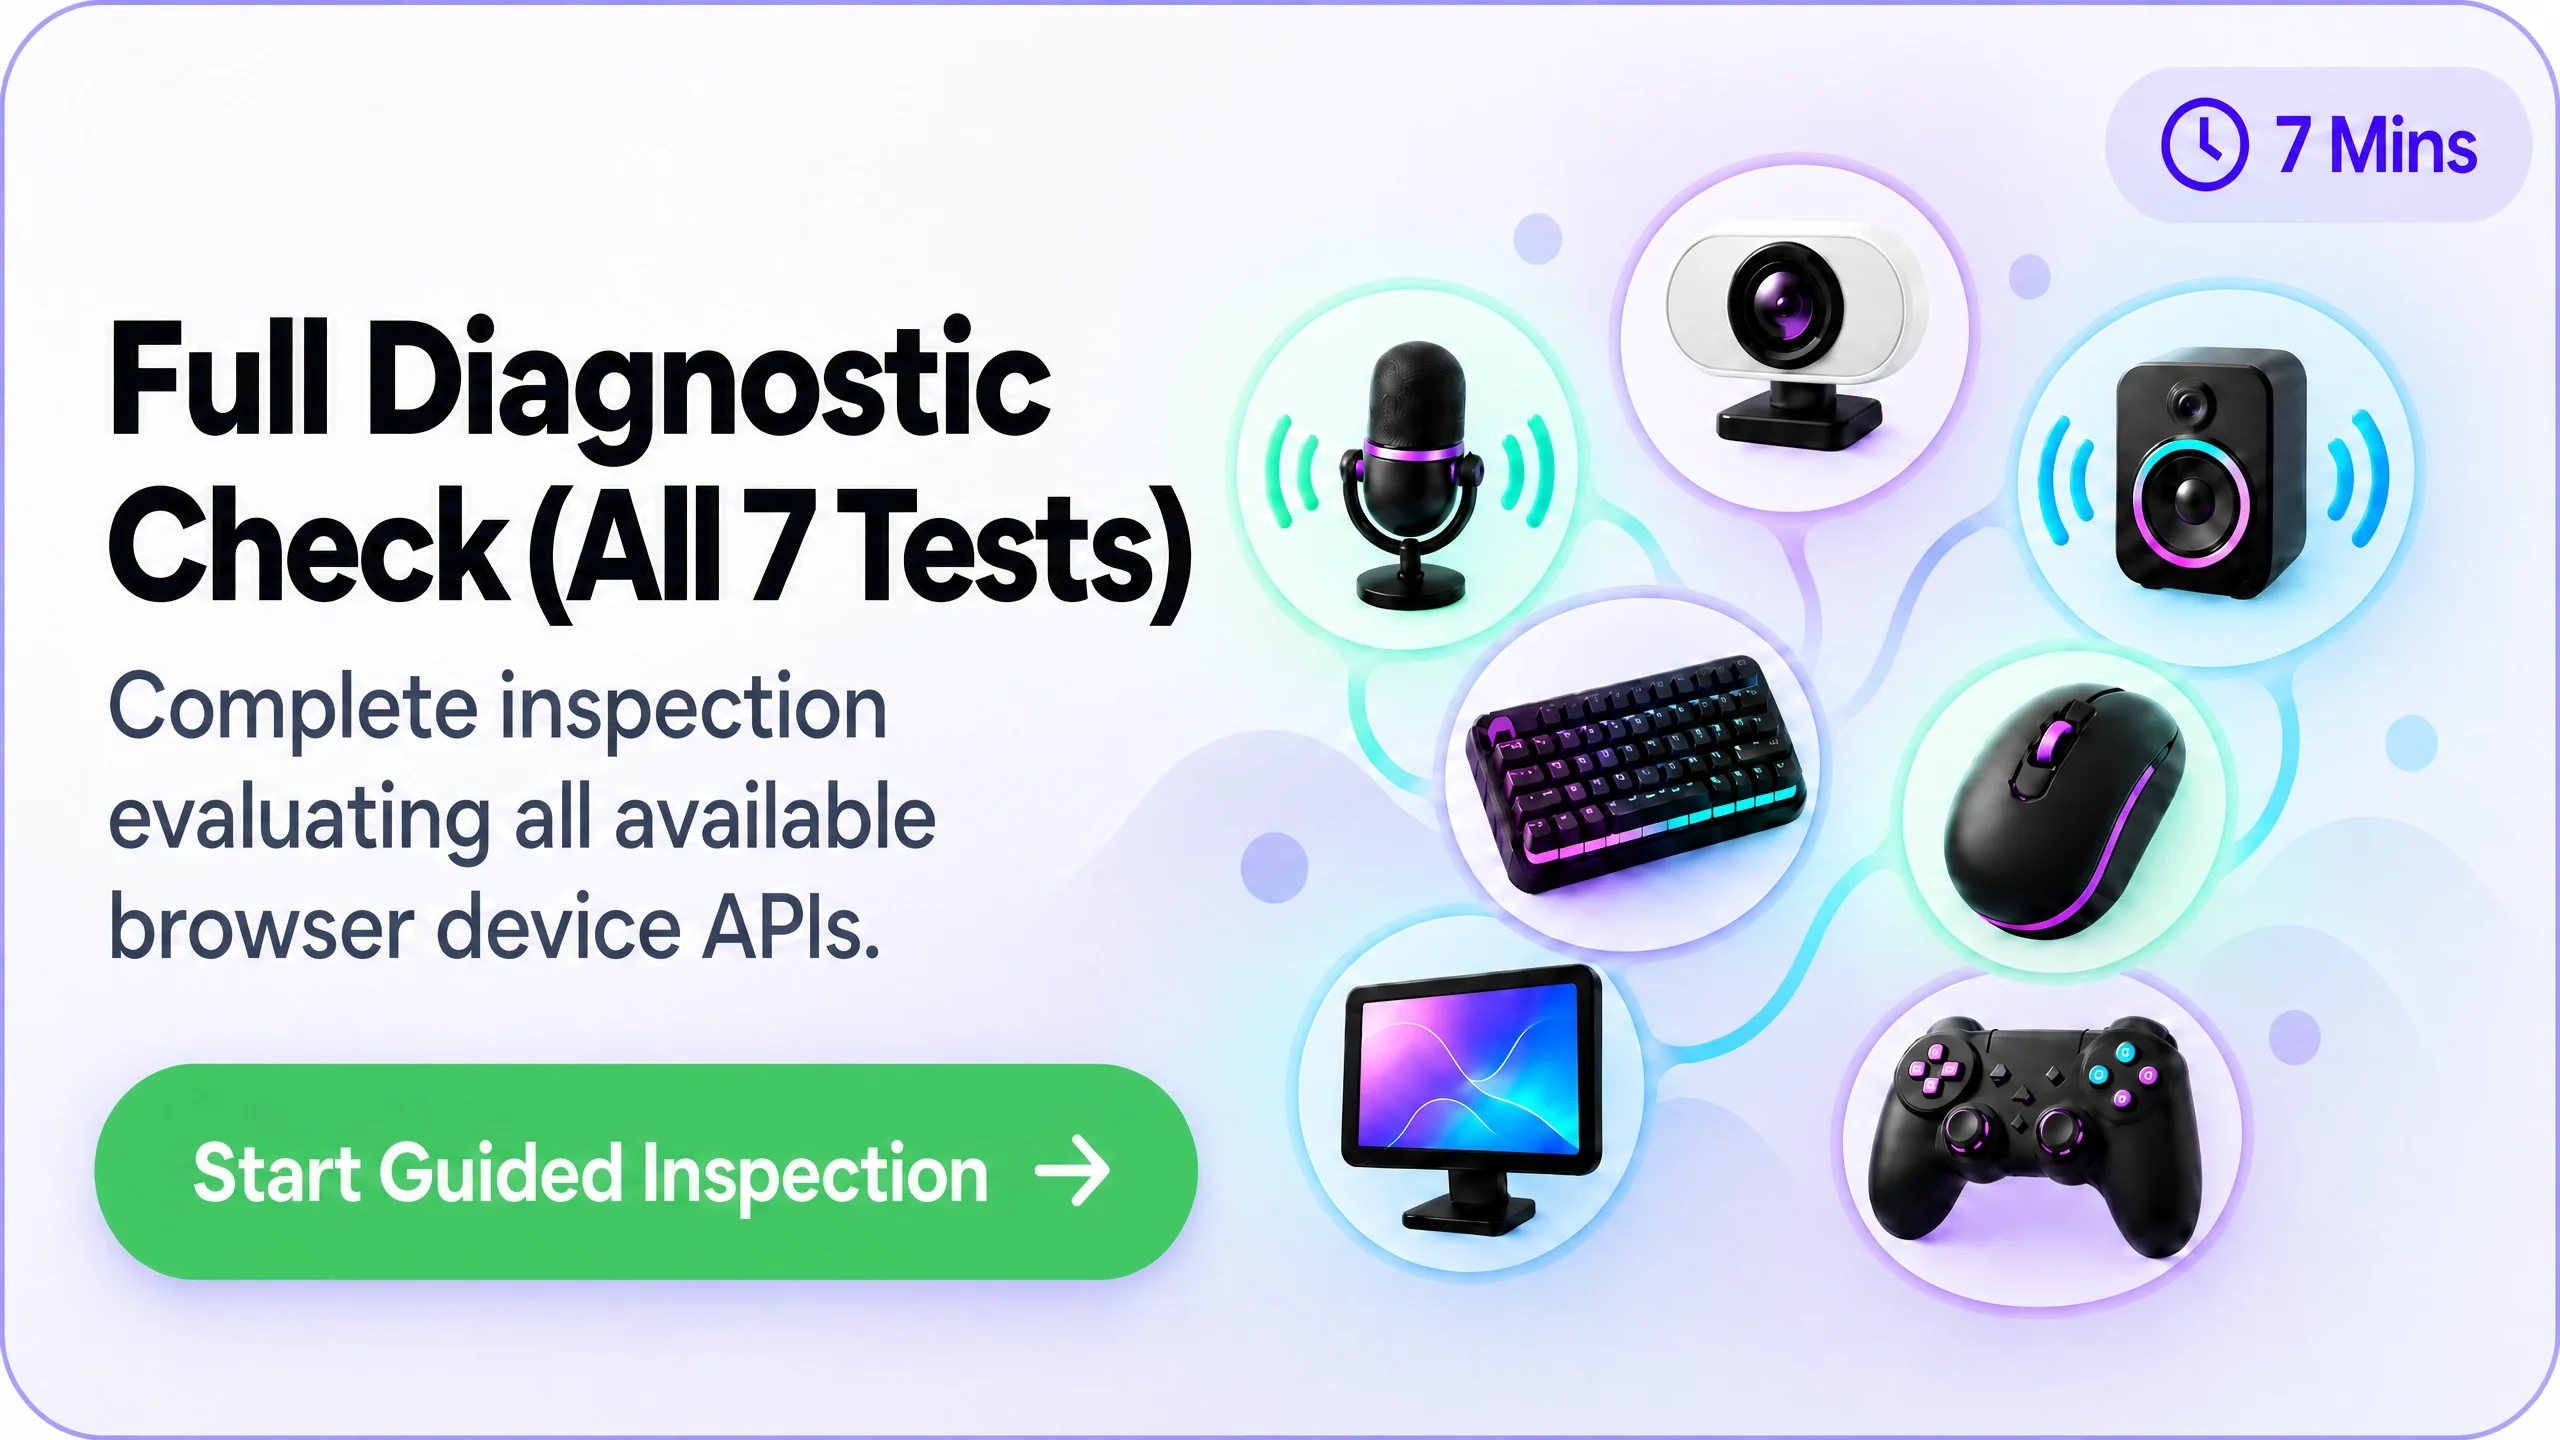
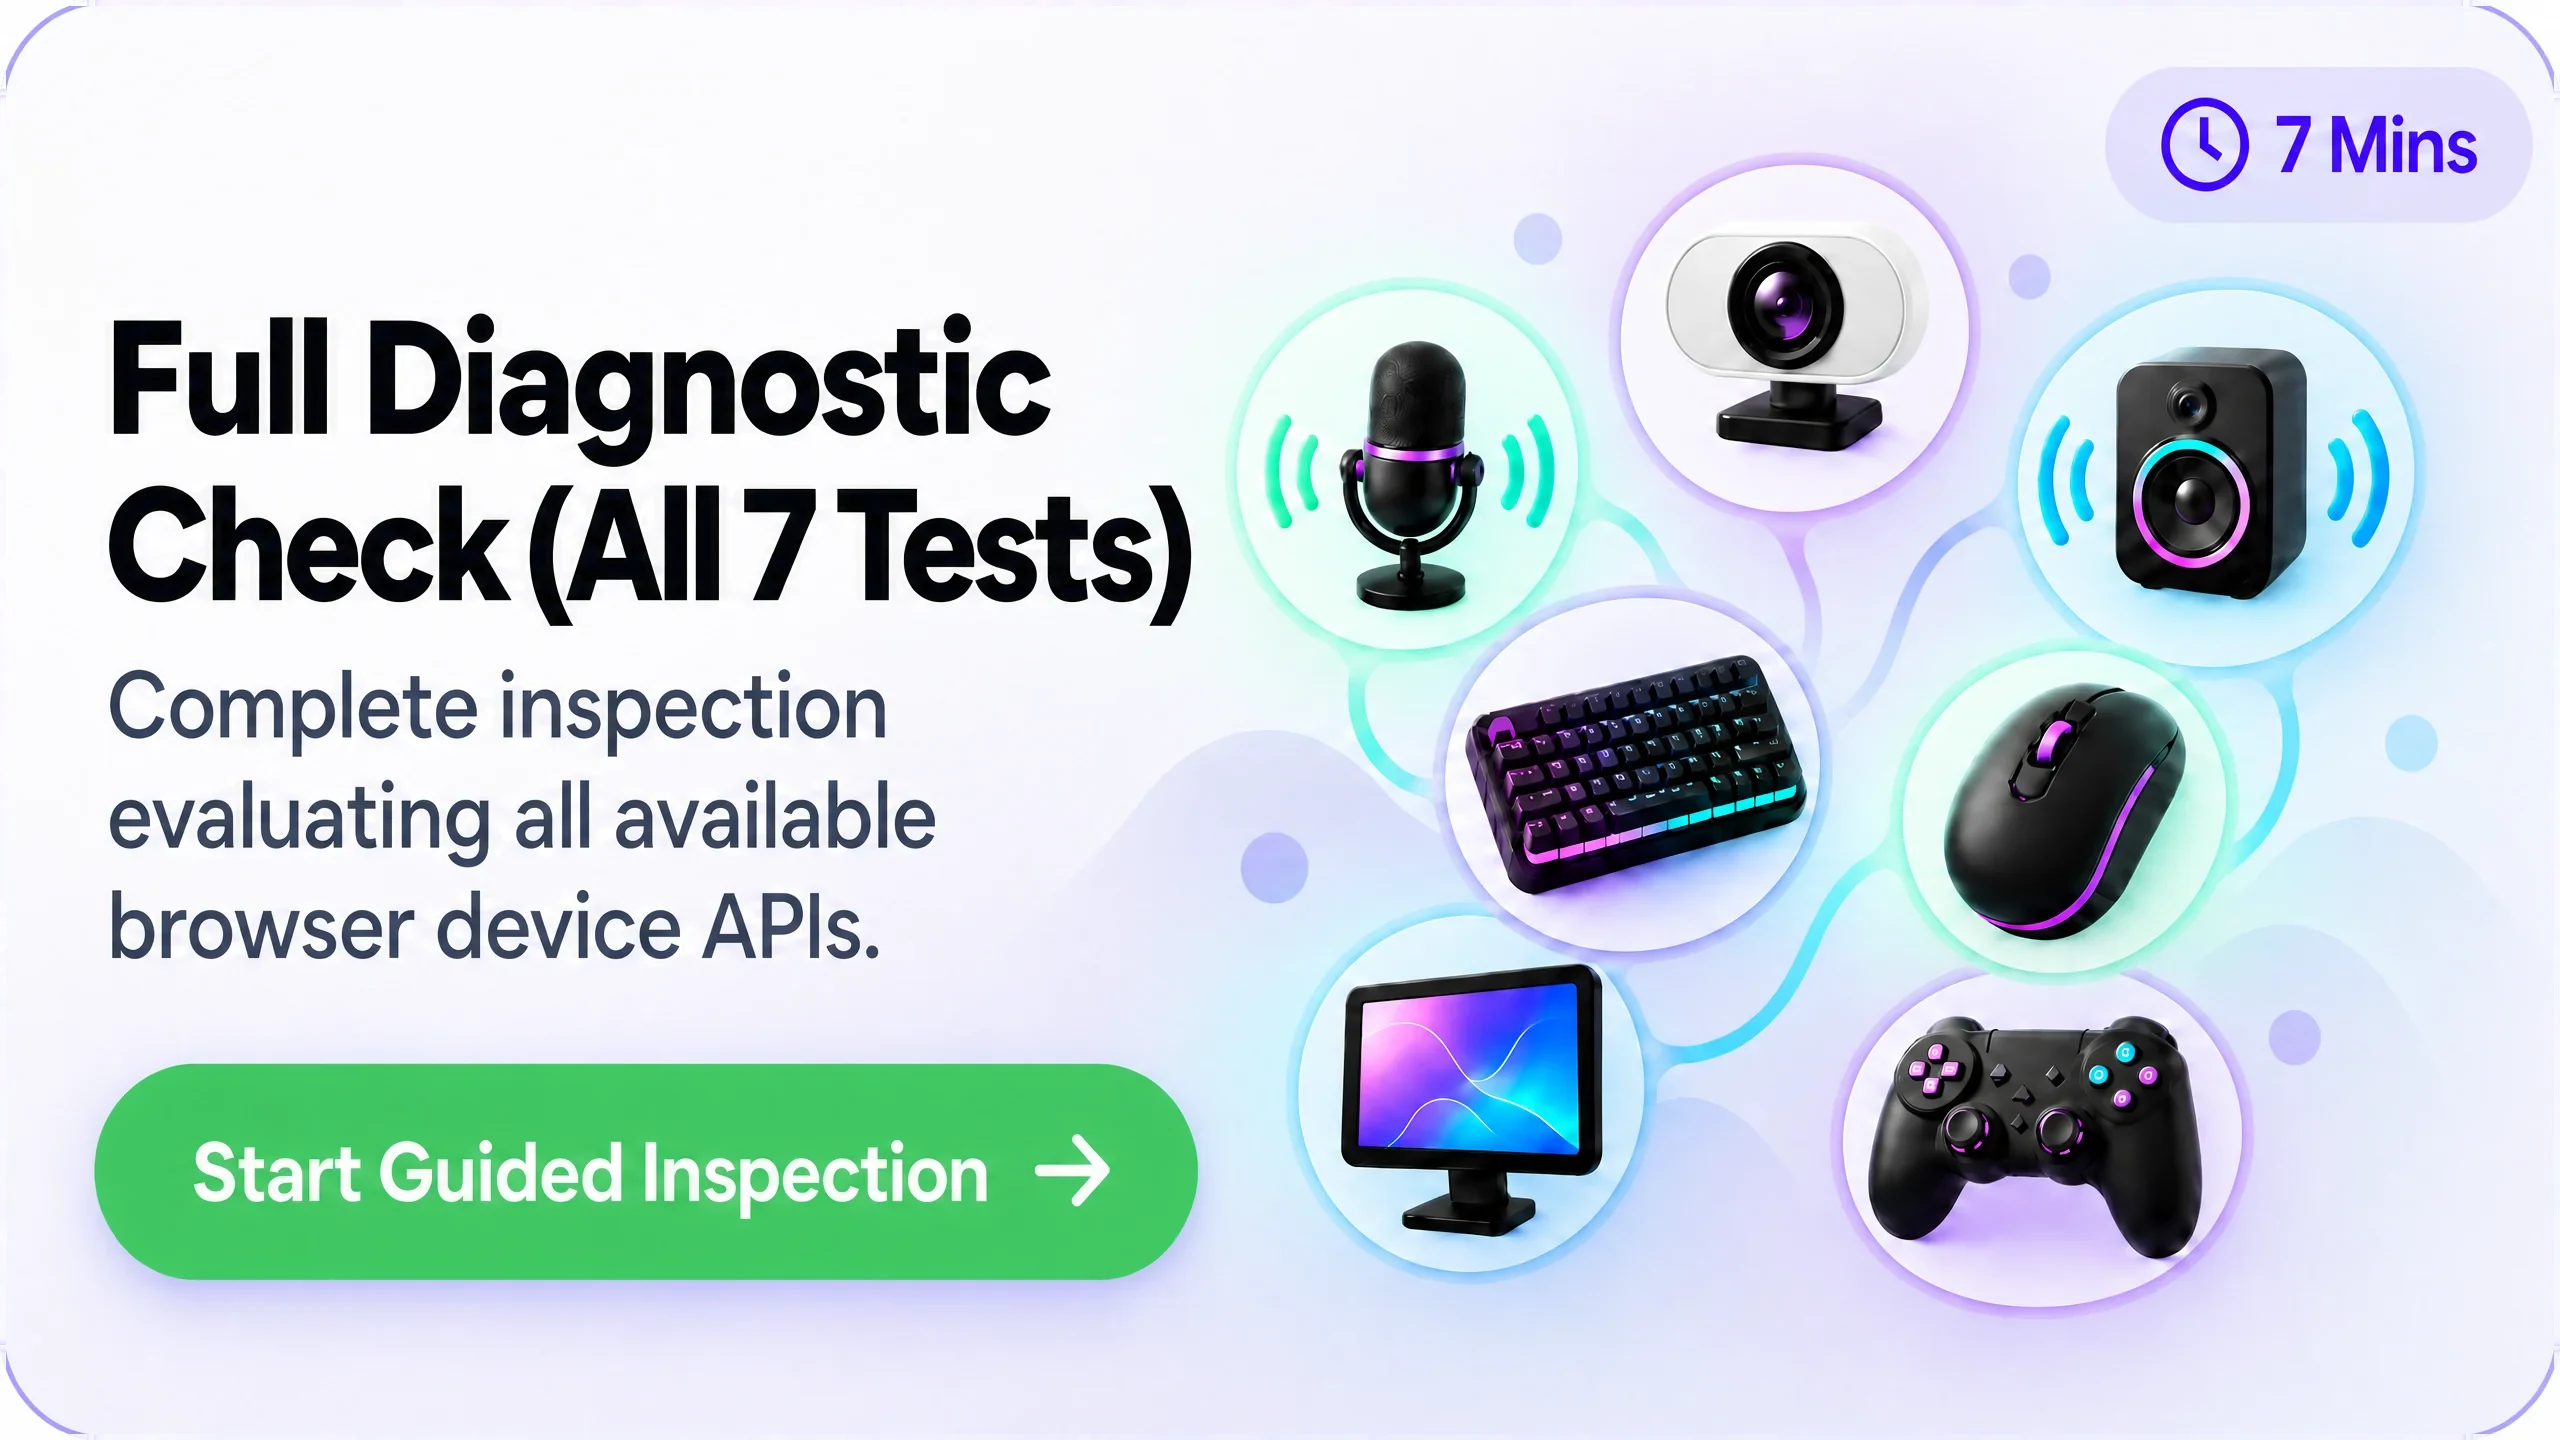
fix: give the four inspection cards one outer shape
The four guided-inspection cards each filled their 2560x1440 frame edge
to edge, so whatever sat outside a card's own rounded corner was still in
the pixels: black on Pre-Call, white on the other three. `rounded-xl` was
on the card box with no `overflow-hidden` beside it, so the radius was
inert and every card showed its own square corners. Clipping is now real,
and the clip radius is wider than any file's corner wedge at every card
width, so nothing is cut.

One file also carried a frame of its own. Measured per asset, Pre-Call,
Used Computer and Classroom have no baked-in edge at all, while Full
Diagnostic had a uniform 5px lavender stroke around its whole perimeter,
which is why it read as a rounded card drawn inside a larger white
square with an extra inner outline. Its source is named
diagnostic_inspection_green_no_inner_frame.png, so that frame was already
meant to be gone. It is removed from the asset rather than hidden with a
theme colour: the stroke sat on the perimeter with the nearest card
content 88px in, so the body colour was propagated outward ring by ring,
leaving zero pixels changed outside the 6px band. Output stays 2560x1440
at the quality that reproduces the other three files' sizes.

A test decodes all four assets and fails on any band thicker than 2px, so
a re-export cannot quietly put the frame back. The chroma check needs a
brightness floor: Pre-Call's near-black corner wedge is also "saturated"
[…]

Changed region(s): [[0.0312, 0.9688, 0.9688, 1.0], [0.0312, 0.0, 0.9688, 0.0312]]

diff --git a/tests/uiCorrections.test.ts b/tests/uiCorrections.test.ts
@@ -277,6 +277,21 @@ test('homepage inspection cards - the supplied artwork IS the card', async () =>
   assert.match(landing, /<Image\s+src=\{option\.image\}/);
   assert.match(landing, /className="h-full w-full object-contain"/);
   assert.match(landing, /aspect-\[16\/9\]/, 'cards share one box so the row aligns');
+  // ONE outer shape for all four. Every file fills the frame edge to edge, so
+  // whatever sits outside a card's own rounded corner (black on Pre-Call,
+  // white on the rest) is still in the pixels; `rounded-xl` only clips once
+  // the box also hides its overflow. Without `overflow-hidden` the radius is
+  // inert and each card shows its own square corners.
+  assert.match(
+    landing,
+    /rounded-xl overflow-hidden[^"]*"[\s\S]{0,1200}<Image/,
+    'the card box must round AND clip, so all four share one outer edge',
+  );
+  assert.doesNotMatch(
+    landing,
+    /rounded-xl focus-visible:outline/,
+    'a radius without overflow-hidden leaves the square corners visible',
+  );
   // Scope to the card markup ITSELF (the map up to its closing '))}'). Slicing
   // to end-of-file would swallow whatever homepage sections follow the carousel
   // and flag their unrelated padding/border classes as card styling.
@@ -474,6 +489,116 @@ test('navbar - closed drawer is aria-hidden AND inert; open drawer is neither', 
   // Guard against the regression where the OPEN dialog was hidden from AT.
   assert.equal(/aria-hidden=\{true\}/.test(navbarSource.replace(/aria-hidden="true"/g, '')), false,
     'no element may be unconditionally aria-hidden=true (backdrop only)');
+});
+
+// ---------- Card artwork: one consistent outer shape ----------
+
+test('inspection cards - no card bakes a frame or a dark corner into its pixels', async (t) => {
+  // The Full Diagnostic file shipped with a ~5px lavender frame around its
+  // whole perimeter while the other three had none, so it read as a rounded
+  // card drawn inside a larger white square. The frame lives in the pixels:
+  // no theme colour or border can hide it, so it has to be absent from the
+  // file. Pre-Call instead fills its rounded corner with black; that is
+  // handled by the shared CSS clip, and is deliberately NOT a failure here.
+  //
+  // Decoding needs a raster decoder, which is not a direct dependency here
+  // (the rest of this file reads WebP headers only). The specifier is held in
+  // a variable so TypeScript never hard-depends on it, and the test skips
+  // loudly rather than pretending when no decoder is installed.
+  type RawInfo = { width: number; height: number; channels: number };
+  type Decoder = (file: string) => {
+    removeAlpha: () => {
+      raw: () => {
+        toBuffer: (o: { resolveWithObject: true }) => Promise<{ data: Buffer; info: RawInfo }>;
+      };
+    };
+  };
+  const specifier = 'sharp';
+  let decode: Decoder | null = null;
+  try {
+    const mod = (await import(specifier)) as unknown as Record<string, unknown>;
+    const candidate = (mod.default ?? mod) as unknown;
+    if (typeof candidate === 'function') decode = candidate as Decoder;
+  } catch {
+    decode = null;
+  }
+  if (!decode) {
+    t.skip('no image decoder available (sharp not installed)');
+    return;
+  }
+
+  const CARDS = [
+    'pre-call-meeting-readiness.webp',
+    'used-computer-hardware-inspection.webp',
+    'classroom-lab-kiosk-verification.webp',
+    'full-diagnostic-check-all-7-tests.webp',
+  ];
+  const sat = (r: number, g: number, b: number) => {
+    const mx = Math.max(r, g, b);
+    const mn = Math.min(r, g, b);
+    return mx === 0 ? 0 : (mx - mn) / mx;
+  };
+  // A frame is a saturated, BRIGHT band. Pre-Call fills its rounded corner
+  // with near-black, which is also "saturated" by the ratio above and must
+  // not be mistaken for one — that wedge is handled by the CSS clip.
+  const isFrameColour = (p: readonly [number, number, number]) =>
+    sat(p[0], p[1], p[2]) > 0.15 && Math.max(p[0], p[1], p[2]) > 40;
+
+  for (const name of CARDS) {
+    const file = join(repoRoot, 'public', 'inspection', name);
+    const { data, info } = await decode(file)
+      .removeAlpha()
+      .raw()
+      .toBuffer({ resolveWithObject: true });
+    const { width: W, height: H, channels } = info;
+    const px = (x: number, y: number) => {
+      const o = (y * W + x) * channels;
+      return [data[o], data[o + 1], data[o + 2]] as const;
+    };
+
+    // Walk INWARD from each edge; a baked frame is a contiguous chromatic
+    // band sitting on the perimeter. Sampled away from the corners, where a
+    // rounded card legitimately has no edge colour.
+    const N = 61;
+    const measure = (edge: 'left' | 'right' | 'top' | 'bottom') => {
+      let max = 0;
+      const span = edge === 'left' || edge === 'right' ? H : W;
+      for (let i = 2; i < N - 2; i++) {
+        const t = Math.floor(((i + 0.5) / N) * span);
+        let d = 0;
+        while (d < 16) {
+          const p =
+            edge === 'left' ? px(d, t)
+            : edge === 'right' ? px(W - 1 - d, t)
+            : edge === 'top' ? px(t, d)
+            : px(t, H - 1 - d);
+          if (!isFrameColour(p)) break;
+          d++;
+        }
+        if (d > max) max = d;
+      }
+      return max;
+    };
+
+    for (const edge of ['left', 'right', 'top', 'bottom'] as const) {
+      const band = measure(edge);
+      // Artwork that runs to the card edge can colour one or two pixels; a
+      // frame is a deliberate band several pixels thick.
+      assert.ok(band <= 2, `${name}: ${band}px frame band baked into the ${edge} edge`);
+    }
+
+    // And the frame must be gone on every side, not just the sampled ones.
+    for (let y = 0; y < H; y++) {
+      for (let x = 0; x < W; x++) {
+        if (Math.min(x, y, W - 1 - x, H - 1 - y) >= 6) continue;
+        const p = px(x, y);
+        assert.ok(
+          !isFrameColour(p),
+          `${name}: frame-coloured pixel survives at (${x}, ${y}) = rgb(${p.join(',')})`,
+        );
+      }
+    }
+  }
 });
 
 // ---------- Post-deployment pass: share payload safety ----------

diff --git a/components/LandingClient.tsx b/components/LandingClient.tsx
@@ -200,6 +200,11 @@ const PRIVACY_POINTS = [
  * real shape of the supplied cards, so the row lines up on one line and each
  * card fills its box. Nothing is cropped or stretched: the artwork is
  * contained, and all four cards are exactly 2560x1440 (16:9).
+ *
+ * The one baked-in inconsistency was the Full Diagnostic file, which carried
+ * a ~5px lavender frame around its perimeter; the other three have none. It
+ * was removed from the asset itself (never with a theme colour), so the four
+ * cards now share a single outer edge that CSS rounds and clips.
  */
 const GUIDED_INSPECTION_OPTIONS = [
   {
@@ -985,13 +990,21 @@ export function LandingClient({ t, guides: homeGuides }: LandingClientProps) {
                 key={option.title}
                 href={`/inspection?suite=${option.suite}`}
                 data-inspection-card
-                className="group block min-w-[88%] sm:min-w-[48%] lg:min-w-[31.5%] snap-start aspect-[16/9] rounded-xl focus-visible:outline focus-visible:outline-2 focus-visible:outline-offset-4 focus-visible:outline-[#6D28D9] dark:focus-visible:outline-[#C4B5FD] transition-shadow hover:shadow-lg"
+                className="group block min-w-[88%] sm:min-w-[48%] lg:min-w-[31.5%] snap-start aspect-[16/9] rounded-xl overflow-hidden focus-visible:outline focus-visible:outline-2 focus-visible:outline-offset-4 focus-visible:outline-[#6D28D9] dark:focus-visible:outline-[#C4B5FD] transition-shadow hover:shadow-lg"
               >
                 {/* Every card sits in the SAME 16:9 box — the real shape of
                     the supplied cards, which are all exactly 2560x1440 — so
                     the row aligns on one line and no card reads as smaller
                     than its neighbours. The artwork is contained, never
-                    cropped or stretched. */}
+                    cropped or stretched.
+
+                    `overflow-hidden` is what gives all four ONE outer shape.
+                    The files fill the frame edge to edge, so whatever sits
+                    outside a card's own rounded corner (black on Pre-Call,
+                    white on the other three) is still in the pixels;
+                    `rounded-xl` only clips once the box also hides its
+                    overflow. The clip radius is larger than every file's
+                    corner wedge at every card width, so no artwork is cut. */}
                 <Image
                   src={option.image}
                   alt={option.alt}
